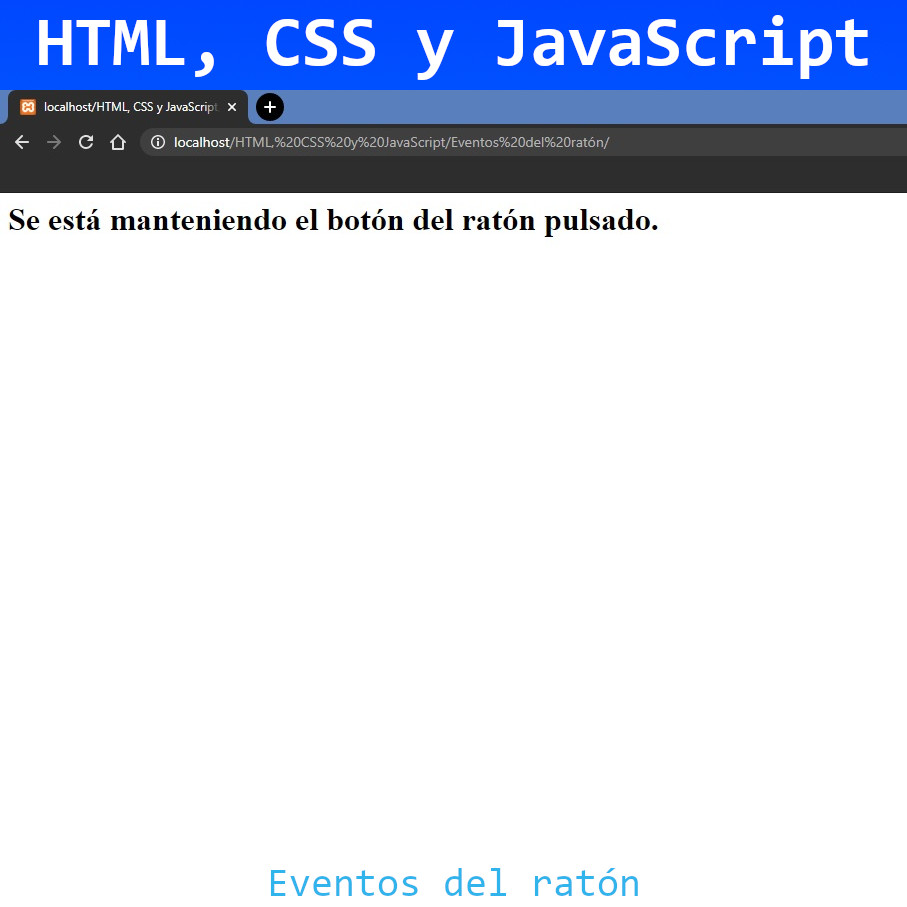
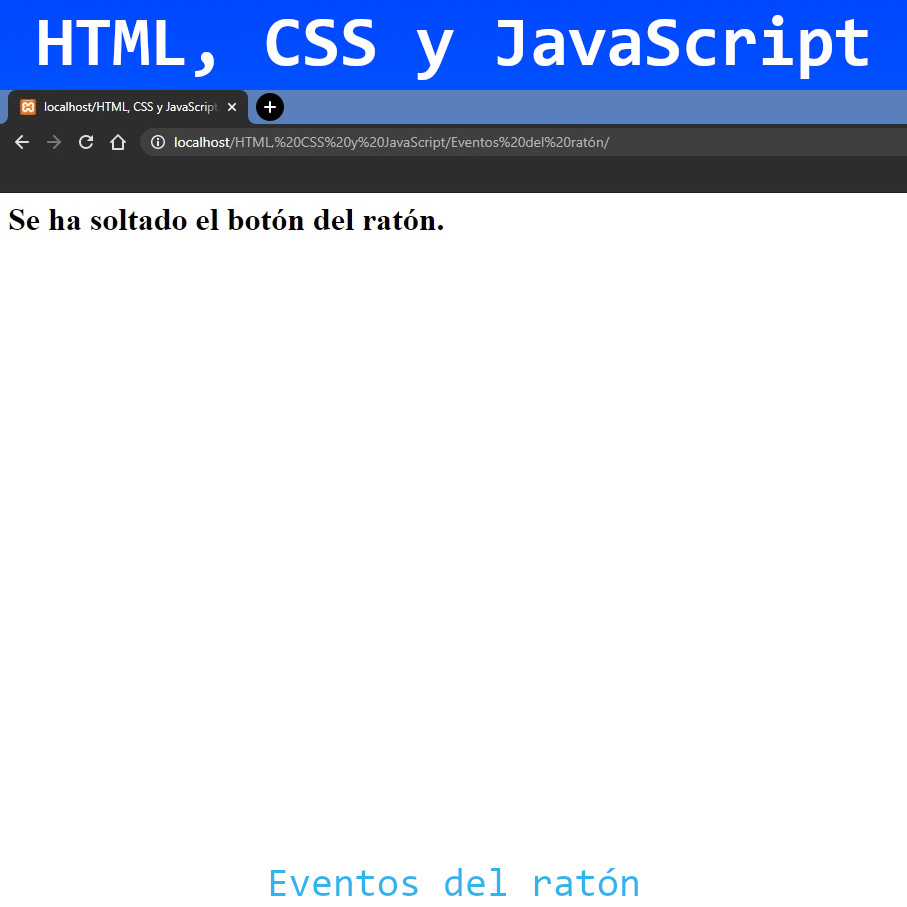
Eventos del raton
Eventos del raton en JavaScript

Changed region(s): [[0.0309, 0.2161, 0.71, 0.2778]]

diff --git a/HTML, CSS y JavaScript/Eventos del ratón/index.html b/HTML, CSS y JavaScript/Eventos del ratón/index.html
@@ -1,5 +1,6 @@
 <!DOCTYPE html>
-<html>
+<!-- crear evento al soltar botón del ratón -->
+<html onmouseup="document.write('<h1>Se ha soltado el botón del ratón.</h1>')">
   <head>
     <!-- PROPIEDADES DEL DOCUMENTO -->
     <meta charset="utf-8">
